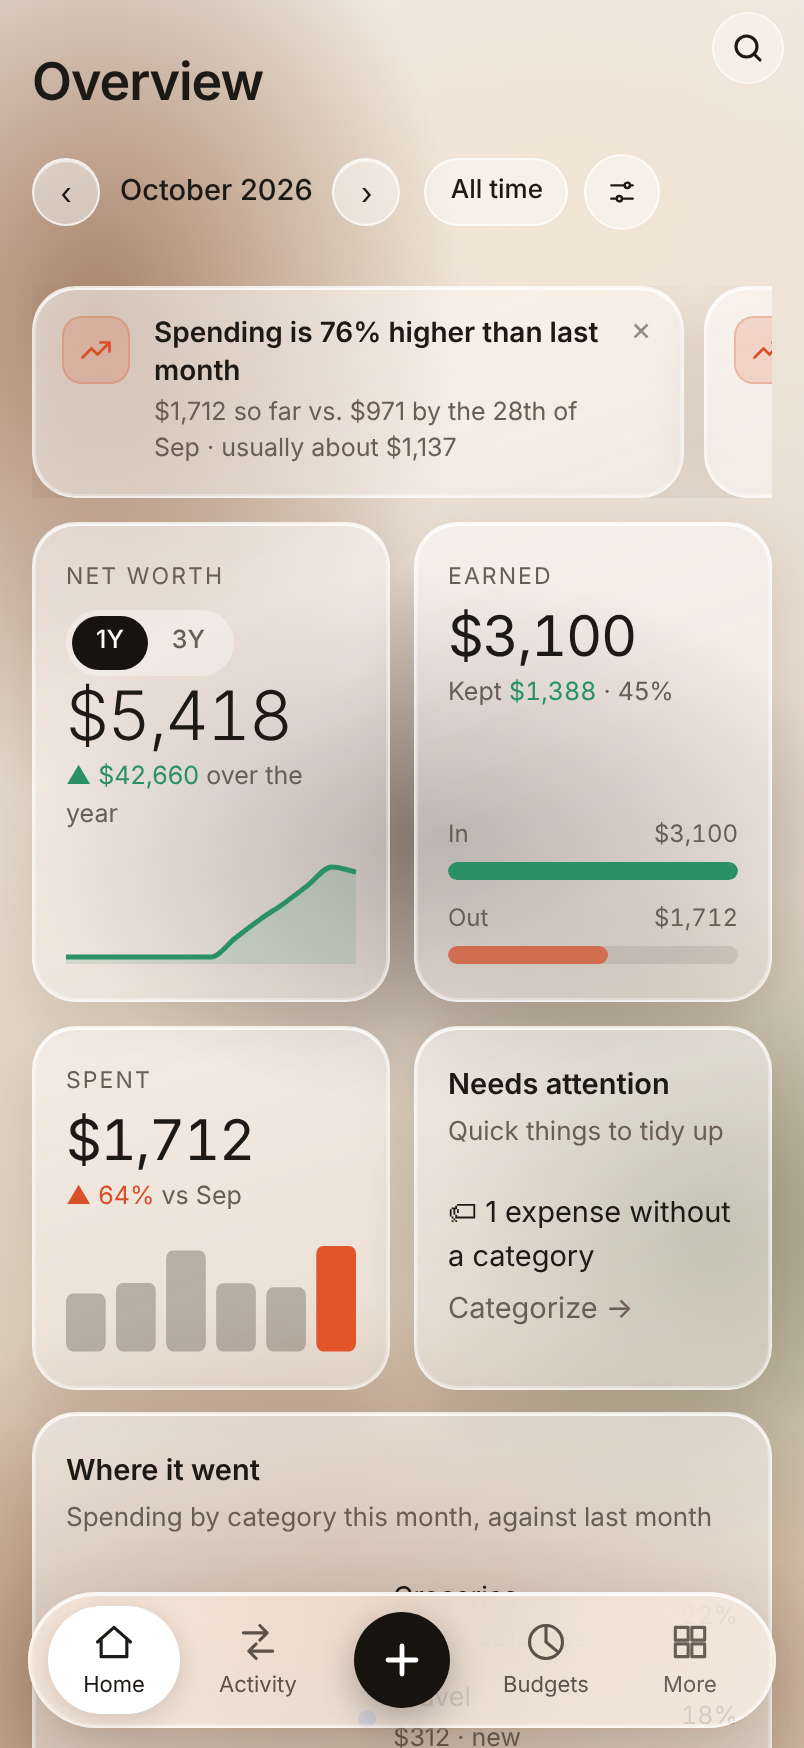
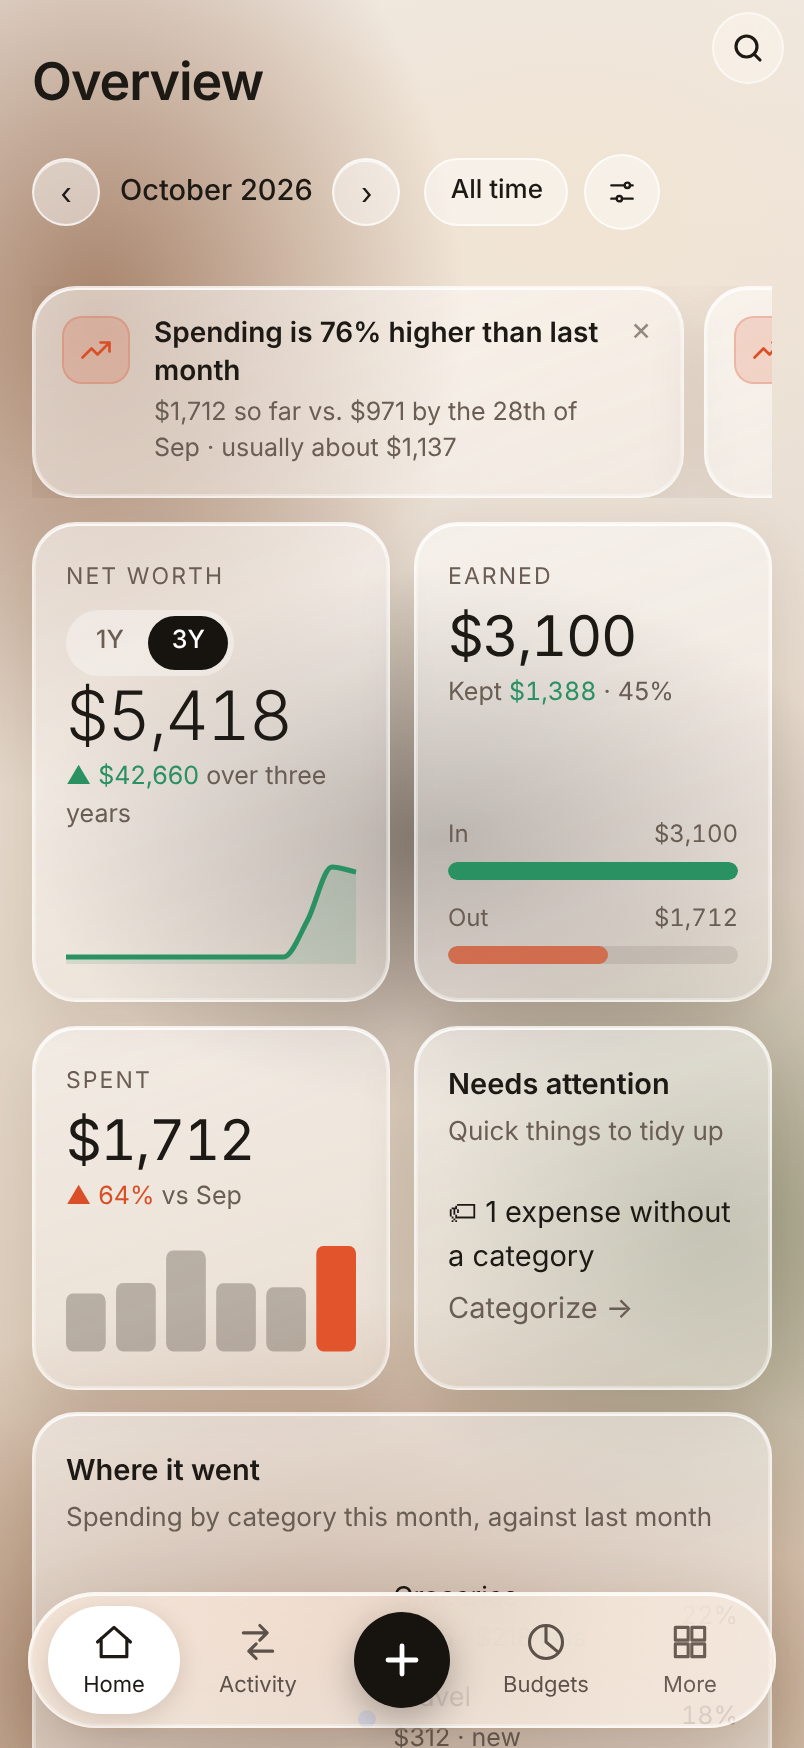
Demo: open with the Overview laid out like Mufaddal's screenshot
- Cash & savings, Where it went, Credit cards in the middle row; net worth over three years
- A layout can keep four small tiles a row on big screens (dash units: 4); the demo's does, so 1920px looks the same as 1440px
- On a phone Where it went comes first so Cash and Credit cards pair up
- README screenshots retaken with the same layout

Claude-Session: https://claude.ai/code/session_01RkvJ8mk2LYN7hbYLxsmdHk

Changed region(s): [[0.0933, 0.3398, 0.2799, 0.4016], [0.2799, 0.4943, 0.4042, 0.5561], [0.3731, 0.4325, 0.4042, 0.4634]]

diff --git a/app/src/features/dashboard.ts b/app/src/features/dashboard.ts
@@ -73,10 +73,11 @@ const optsButton = (k: string) => TILE_OPTS[k] ? html`<button type="button" clas
 const DASH_COLS: (number | '')[] = ['', 1, 2, 3, 4, 6];      // '' = as many ~340px columns as fit (max 6)
 // order is the card order (a phone's, and how a wide screen deals them); hidden the cards taken off; shown the cards added
 // that aren't on by default; size the bento sizes picked; cols the chosen column count ('' = bento); place[n] the column
-// arrangement; free the freeform spots {tile: [x, y, w]}; opts each tile's settings
+// arrangement; free the freeform spots {tile: [x, y, w]}; opts each tile's settings; units the most bento units across
+// (4 keeps a big screen at four small tiles a row, for a layout arranged that way)
 type Block = string | string[][];
 type DashLayout = { order: string[], hidden: string[], wide: string[] | null, cols: number | '', place: Record<string, unknown>,
-  free?: Record<string, unknown>, opts?: Record<string, Record<string, unknown>>, shown?: string[], size?: Record<string, string>, v?: number };
+  free?: Record<string, unknown>, opts?: Record<string, Record<string, unknown>>, shown?: string[], size?: Record<string, string>, v?: number, units?: number };
 // v 3 is the bento Overview. A layout arranged before it starts over with the bento defaults, keeping each tile's settings.
 function dashLayout(): DashLayout {
   const saved = LS.get('dash', {}) || {}, fresh = { order: [], hidden: [], wide: null, cols: '' as const, place: {} };
@@ -123,7 +124,7 @@ const viewWidth = () => { const v = el('view'); return (v && v.clientWidth) || i
 // The freeform grid: a wide screen with a column count picked. Otherwise bento rows, four small tiles across (six on a big
 // screen, so the cards don't stretch into wide empty boxes; two on a phone).
 const gridMode = (L: DashLayout) => !!L.cols && viewWidth() >= 700;
-const bentoUnits = () => { const w = viewWidth(); return w >= 1500 ? 6 : w >= 1000 ? 4 : 2; };
+const bentoUnits = () => { const w = viewWidth(), most = dashLayout().units === 4 ? 4 : 6; return w >= 1500 ? most : w >= 1000 ? 4 : 2; };
 // The cards in your order (the defaults' order for cards you haven't placed)
 const dashOrder = (L: DashLayout, keys: string[]) => {
   const rank = (k: string) => { const i = L.order.indexOf(k), d = DASH_DEFAULT.indexOf(k); return i >= 0 ? i : 1e3 + (d >= 0 ? d : 100 + keys.indexOf(k)); };

diff --git a/app/src/demo/demo.ts b/app/src/demo/demo.ts
@@ -5,11 +5,15 @@
 import { NotFound, createMockApi } from './mockapi';
 
 // A first visit opens in Frosted glass, with the Overview arranged like the README's screenshots (this runs before
-// boot.js reads the theme). Anything the visitor changes is kept, and Customize → Reset gives the usual defaults.
+// boot.js reads the theme): four small tiles a row even on a big screen, net worth over three years. A phone puts
+// Where it went first in its row so Cash and Credit cards pair up. Anything the visitor changes is kept, and
+// Customize → Reset gives the usual defaults.
 try {
+  const phone = innerWidth < 1000;
   if (!localStorage.getItem('moneyTheme')) localStorage.setItem('moneyTheme', 'frosted');
+  if (!localStorage.getItem('money.nwYears')) localStorage.setItem('money.nwYears', '3');
   if (!localStorage.getItem('money.dash')) localStorage.setItem('money.dash', JSON.stringify({
-    v: 3, order: ['insights', 'networth', 'earned', 'spent', 'attention', 'spending', 'cash', 'cards', 'flow', 'heatmap', 'loans'],
+    v: 3, units: 4, order: ['insights', 'networth', 'earned', 'spent', 'attention', ...(phone ? ['spending', 'cash'] : ['cash', 'spending']), 'cards', 'flow', 'heatmap', 'loans'],
     shown: ['cash', 'cards', 'flow', 'heatmap', 'loans'], hidden: ['safe', 'budgets', 'bills', 'cashflow'],
     size: { networth: 's', attention: 's', cash: 's', cards: 's', heatmap: 's', loans: 's', spending: 'm', flow: 'm' },
   }));

diff --git a/dev/smoke_test.py b/dev/smoke_test.py
@@ -279,10 +279,13 @@ async def check(pw, width, height, mobile):
     return errors
 
 
-# The Overview as the README and the online demo show it (app/src/demo/demo.ts sets up the same layout)
-SHOT_DASH = ('{"v":3,"order":["insights","networth","earned","spent","attention","spending","cash","cards","flow","heatmap","loans"],'
-             '"shown":["cash","cards","flow","heatmap","loans"],"hidden":["safe","budgets","bills","cashflow"],'
-             '"size":{"networth":"s","attention":"s","cash":"s","cards":"s","heatmap":"s","loans":"s","spending":"m","flow":"m"}}')
+# The Overview as the README and the online demo show it (app/src/demo/demo.ts sets up the same layout; a phone
+# puts Where it went before Cash so Cash and Credit cards pair up)
+def shot_dash(phone):
+    mid = '"spending","cash"' if phone else '"cash","spending"'
+    return ('{"v":3,"units":4,"order":["insights","networth","earned","spent","attention",' + mid + ',"cards","flow","heatmap","loans"],'
+            '"shown":["cash","cards","flow","heatmap","loans"],"hidden":["safe","budgets","bills","cashflow"],'
+            '"size":{"networth":"s","attention":"s","cash":"s","cards":"s","heatmap":"s","loans":"s","spending":"m","flow":"m"}}')
 
 
 async def screenshots(pw, out):
@@ -290,7 +293,7 @@ async def screenshots(pw, out):
     async def shot(route, name, w=1440, h=900, mobile=False, theme='frosted', action=None, full=False, scale=None):
         ctx = await br.new_context(viewport={'width': w, 'height': h}, is_mobile=mobile, has_touch=mobile, device_scale_factor=scale or (2 if mobile else 1))
         await ctx.add_cookies([{'name': 'money_session', 'value': 'demo', 'url': BASE.split('#')[0].rstrip('/') + '/api/'}])
-        await ctx.add_init_script(f"localStorage.setItem('money.dash', '{SHOT_DASH}'); localStorage.setItem('money.syncOff', 'true')")
+        await ctx.add_init_script(f"localStorage.setItem('money.dash', '{shot_dash(mobile)}'); localStorage.setItem('money.nwYears', '3'); localStorage.setItem('money.syncOff', 'true')")
         if theme: await ctx.add_init_script(f"localStorage.setItem('moneyTheme','{theme}')")
         pg = await ctx.new_page(); await pg.goto(BASE + '#/' + route)
         await pg.wait_for_function(PAINTED); await pg.wait_for_function("() => !document.querySelector('#view .sk, #view [aria-busy]')"); await pg.wait_for_timeout(2800)
